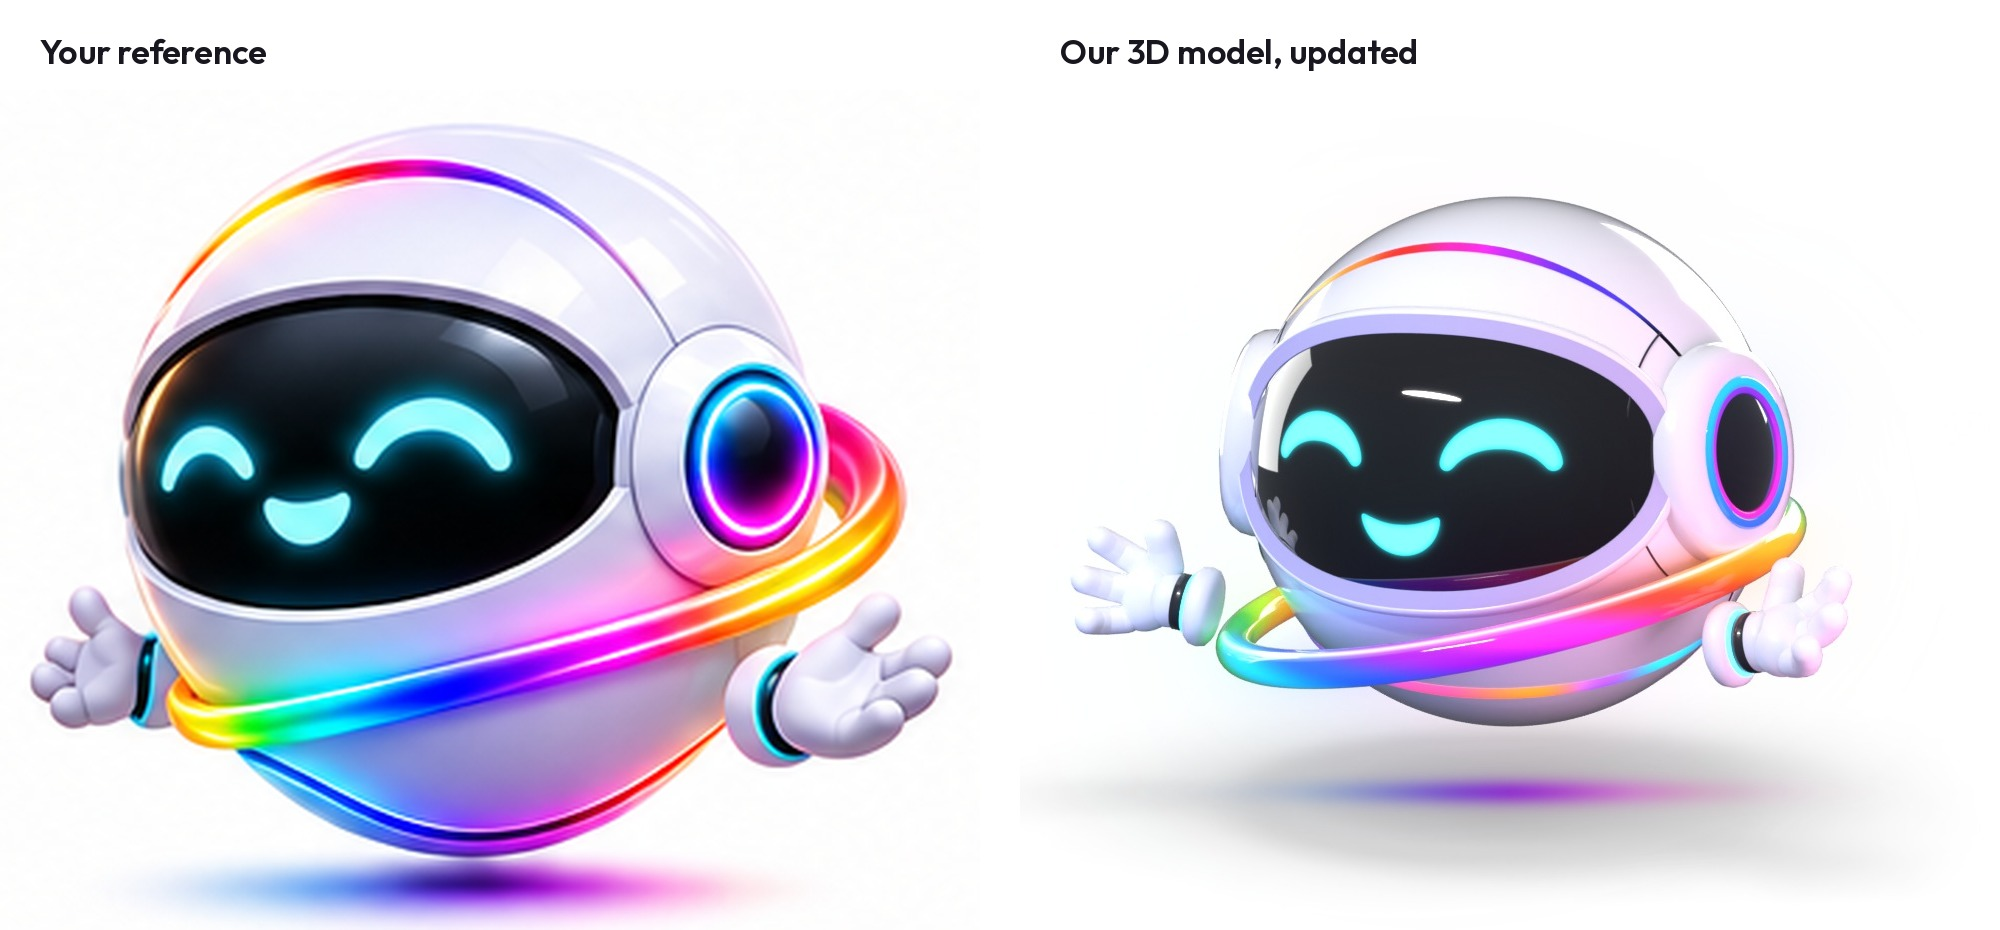
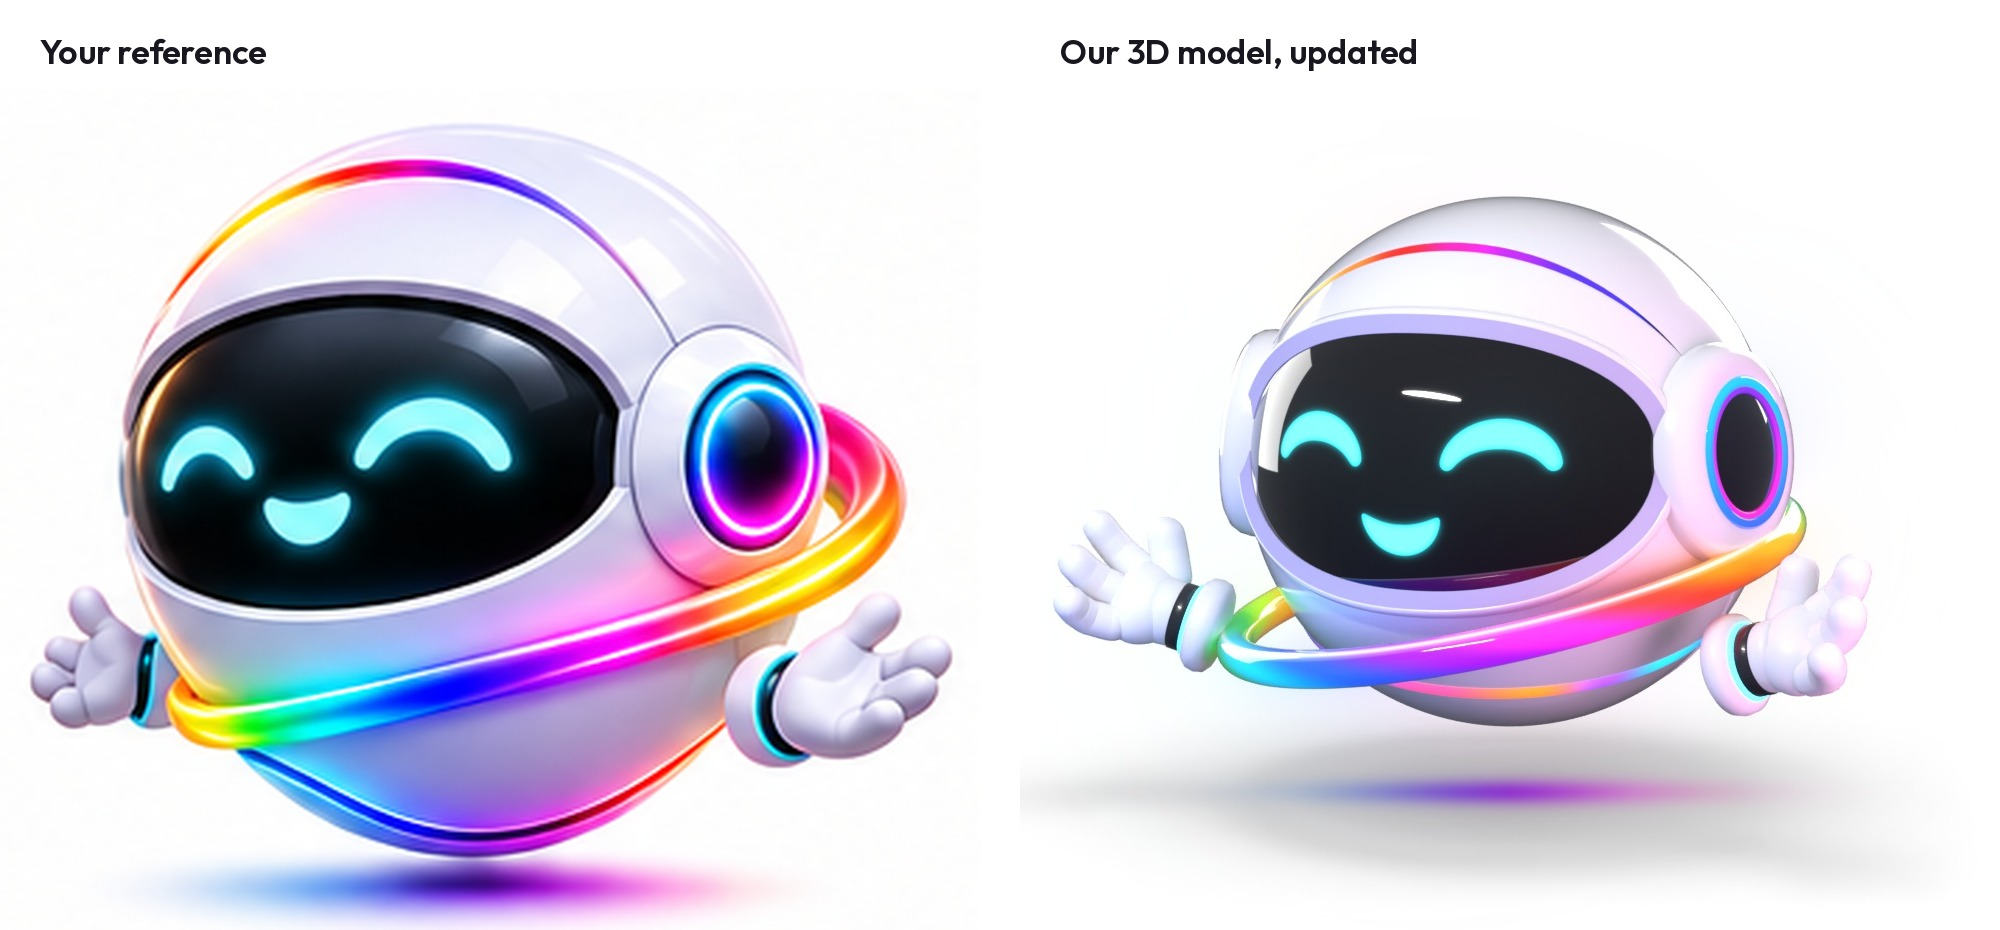
Character version 3: no dark seam lines, no glove reflection in the visor, presenting hands
Claude-Session: https://claude.ai/code/session_011BdSE2fEeiEv9ZgoYmWAPn

Changed region(s): [[0.527, 0.5301, 0.651, 0.7172], [0.806, 0.5925, 0.93, 0.7796], [0.806, 0.343, 0.837, 0.3742]]

diff --git a/design/hero/character/v3/build.py b/design/hero/character/v3/build.py
@@ -195,12 +195,11 @@ bezel_sweep('Bezel', [(0.044, 0.034), (0.0455, 0.0365), (0.049, 0.0375), (0.066,
 EAR_LON, EAR_LAT = 76, 6
 for s in (1, -1):
     ax = on_sphere(s * EAR_LON, EAR_LAT); nm = 'L' if s > 0 else 'R'
-    torus('EarSeam' + nm, 0.5, 0.0045, M_band, axis=ax, center=ax * math.sqrt(1 - 0.5 ** 2), n=200, m=8)   # the ear plate is flush, outlined by a thin dark seam
     lathe('EarCup' + nm, [(0.4, 0.88), (0.4, 0.955), (0.393, 0.995), (0.375, 1.025), (0.345, 1.045), (0.305, 1.056), (0.275, 1.054), (0.258, 1.047), (0.25, 1.038)], M_body, axis=ax)   # a low housing, close on the body
     lathe('EarCentre' + nm, [(0.238, 1.036), (0.2, 1.062), (0.1, 1.086), (0.0, 1.093)], M_black, axis=ax)
     torus('EarRingIn' + nm, 0.226, 0.015, M_earRing, axis=ax, center=ax * 1.05, n=160, m=10, color=lambda t, b, s=s: ramp(EARIN, (t + (0.25 if s > 0 else 0.75)) % 1.0), parent=root)
     torus('EarRing' + nm, 0.255, 0.022, M_earRing, axis=ax, center=ax * 1.048, n=160, m=12, color=lambda t, b, s=s: ramp(EAR, (t + (0.25 if s > 0 else 0.75)) % 1.0))
-    for o in ('EarSeam', 'EarCup', 'EarCentre', 'EarRing'): bpy.data.objects[o + nm].parent = root
+    for o in ('EarCup', 'EarCentre', 'EarRing'): bpy.data.objects[o + nm].parent = root
 
 # ---------------------------------------------------------------- the rainbow stripe over the head, ear to ear, and the glowing seam low on the front
 E1 = on_sphere(EAR_LON, EAR_LAT); TOP = on_sphere(0, 58)
@@ -224,15 +223,7 @@ mod = body.modifiers.new('cut', 'BOOLEAN'); mod.operation = 'DIFFERENCE'; mod.ob
 bpy.context.view_layer.objects.active = body; bpy.ops.object.modifier_apply(modifier=mod.name); bpy.data.objects.remove(cutter)
 # the cut that the top light sits in: a thin slot all round where the shell meets the face piece, and the shell behind it
 # stands a little proud, so there is a clear step edge with the light under it (fitted panels, as on the reference)
-hv, hf = [], []; HN = 240; SLOT = 0.008   # a thin, crisp seam line all round
-for i in range(HN):
-    a = 2 * math.pi * i / HN; dirv = math.cos(a) * Vector((1, 0, 0)) + math.sin(a) * up_
-    for rad, tt in ((rr_ - 0.05, -SLOT), (rr_ - 0.05, SLOT), (rr_ + 0.09, SLOT), (rr_ + 0.09, -SLOT)): hv.append(C_ + dirv * rad + n_ * tt)
-for i in range(HN):
-    for k in range(4): hf.append((i * 4 + k, i * 4 + (k + 1) % 4, ((i + 1) % HN) * 4 + (k + 1) % 4, ((i + 1) % HN) * 4 + k))
-headcut = mesh_object('HeadCut', hv, hf, M_dark)
-mod = body.modifiers.new('headcut', 'BOOLEAN'); mod.operation = 'DIFFERENCE'; mod.object = headcut; mod.solver = 'EXACT'; mod.material_mode = 'TRANSFER'
-bpy.context.view_layer.objects.active = body; bpy.ops.object.modifier_apply(modifier=mod.name); bpy.data.objects.remove(headcut)
+SLOT = 0.008   # where the shell's edge sits; no slot is cut, so no dark line
 s_top = 1 if n_.z > d_ else -1
 A_ = n_ * s_top; h_e = s_top * d_ + SLOT; RS = 1.005; th_e = math.acos(h_e / RS); rho_e = RS * math.sin(th_e)
 # the shell behind the cut, with a tiny rounded bevel on its edge so the edge catches a thin, sharp highlight, then a straight wall
@@ -244,7 +235,7 @@ for k in range(1, 9):
     ph = math.pi / 2 * k / 8; q = er_(thc) * Rc + RB * (math.cos(ph) * er_(thc) + math.sin(ph) * et_(thc)); prof.append((q.x, q.y))
 qe = Vector(prof[-1]); prof.append(tuple(qe * (0.985 / qe.length)))
 lathe('TopShell', prof[:-1], M_body, axis=A_, n=360); bpy.data.objects['TopShell'].parent = root   # white surface and bevel only
-lathe('TopShellWall', [prof[-2], prof[-1]], M_dark, axis=A_, n=360); bpy.data.objects['TopShellWall'].parent = root   # the inside of the seam is dark
+lathe('TopShellWall', [prof[-2], prof[-1]], M_body, axis=A_, n=360); bpy.data.objects['TopShellWall'].parent = root   # the shell's edge, white
 # the top light: a flat band of light with hard edges, from the foot of the shell's edge down onto the face piece; its ends come to points
 def head_band(NA=300, K=7, W0=0.05):
     verts, faces, cols = [], [], []; a0, a1 = math.radians(152), math.radians(34)
@@ -303,7 +294,7 @@ def ring_point(a_deg):
 # ---------------------------------------------------------------- hands: cartoon gloves, built in their own frame (palm at the origin,
 # fingers along +Z, palm facing -Y); th = +1 puts the thumb on +X (the character's right hand), -1 on -X (its left hand)
 POSES = {
-    'open':     dict(f=[(16, 22, 12), (14, 22, 12), (22, 30, 18)], spread=1.4, thumb=((0.92, -0.3, 0.25), (8, 12))),
+    'open':     dict(f=[(14, 20, 12), (16, 22, 14), (22, 28, 16)], spread=1.3, thumb=((0.85, -0.25, 0.45), (8, 12))),
     'palm':     dict(f=[(3, 5, 3)] * 3, spread=1.4, thumb=((0.75, -0.35, 0.55), (0, 6))),
     'point':    dict(f=[(0, 0, 0), (90, 105, 75), (90, 105, 75)], spread=0.4, thumb=((0.3, -0.9, 0.4), (30, 34))),
     'thumbsup': dict(f=[(92, 105, 78)] * 3, spread=0.2, thumb=((1.0, -0.2, 0.35), (0, 0))),
@@ -311,7 +302,7 @@ POSES = {
     'chin':     dict(f=[(22, 20, 10), (86, 100, 72), (88, 102, 74)], spread=0.4, thumb=((0.7, -0.6, 0.45), (8, 8))),
     'pen':      dict(f=[(64, 80, 54), (70, 84, 58), (74, 88, 60)], spread=0.2, thumb=((0.4, -0.85, 0.5), (22, 24))),
 }
-FING = [(0.1, 0.052, (0.072, 0.056, 0.042), 14), (0.0, 0.054, (0.078, 0.06, 0.045), 0), (-0.1, 0.051, (0.068, 0.052, 0.04), -14)]   # three fat, rounded fingers, a little apart, and a thumb
+FING = [(0.1, 0.054, (0.074, 0.058, 0.044), 14), (0.0, 0.056, (0.08, 0.062, 0.047), 0), (-0.1, 0.053, (0.07, 0.054, 0.042), -14)]   # three fat, rounded fingers and a thumb, as on the reference
 HANDS = {}
 def frame_from(F, N):
     Z = Vector(F).normalized(); Nn = Vector(N); Y = -(Nn - Z * Nn.dot(Z)).normalized(); X = Y.cross(Z)
@@ -348,9 +339,9 @@ def show_hands(names):
     for k, objs in HANDS.items():
         for o in objs: o.hide_render = k not in names
 
-def side_hand(name, s, cuff=(1.0, -0.5, -0.55), pose='open', F=None, N=None, scale=1.08):
+def side_hand(name, s, cuff=(1.0, -0.45, -0.64), pose='open', F=None, N=None, scale=1.3):
     """A hand at the character's side (s = -1 its right, +1 its left), given by where its cuff ends."""
-    F = Vector(F or (s * 0.96, -0.2, 0.18)).normalized(); N = N or ((0.15, -0.68, 0.72) if s > 0 else (0.55, -0.82, 0.18))   # palm up, tilted to the viewer, fingers outward   # palms up and toward the viewer
+    F = Vector(F or (s * 0.92, -0.22, 0.3)).normalized(); N = N or ((0.15, -0.72, 0.68) if s > 0 else (0.42, -0.65, 0.64))   # palm up and tilted to the viewer, fingers out to the side
     return hand(name, pose, -s, Vector((s * cuff[0], cuff[1], cuff[2])) + F * 0.234 * scale, F, N, scale)
 
 side_hand('TurnR', -1); side_hand('TurnL', 1)

diff --git a/design/hero/character/v3/final.py b/design/hero/character/v3/final.py
@@ -47,6 +47,8 @@ rb = bsdf('ring'); rb.inputs['Emission Strength'].default_value = 0.85; rb.input
 next(n for n in bpy.data.materials['ring'].node_tree.nodes if n.bl_idname == 'ShaderNodeMix').inputs['B'].default_value = (1, 1, 1, 1)   # the logo ring: glossy, deep colour, not a light tube
 
 for nm in ('LowSeam', 'HeadStripe'): bpy.data.objects[nm].visible_glossy = False   # no smeary reflections of the lights on the body or visor
+for o in bpy.data.objects:                                       # the gloves are not mirrored in the visor (no white smudge on the glass)
+    if o.name.startswith(('Turn', 'Think', 'Idea', 'Cool', 'Wink', 'Surp', 'Hero')): o.visible_glossy = False
 # ---------------------------------------------------------------- a floor that only catches the shadow
 FLOOR = -1.3
 bpy.ops.mesh.primitive_plane_add(size=30, location=(0, 0, FLOOR)); catcher = bpy.context.object; catcher.name = 'ShadowCatcher'; catcher.is_shadow_catcher = True
